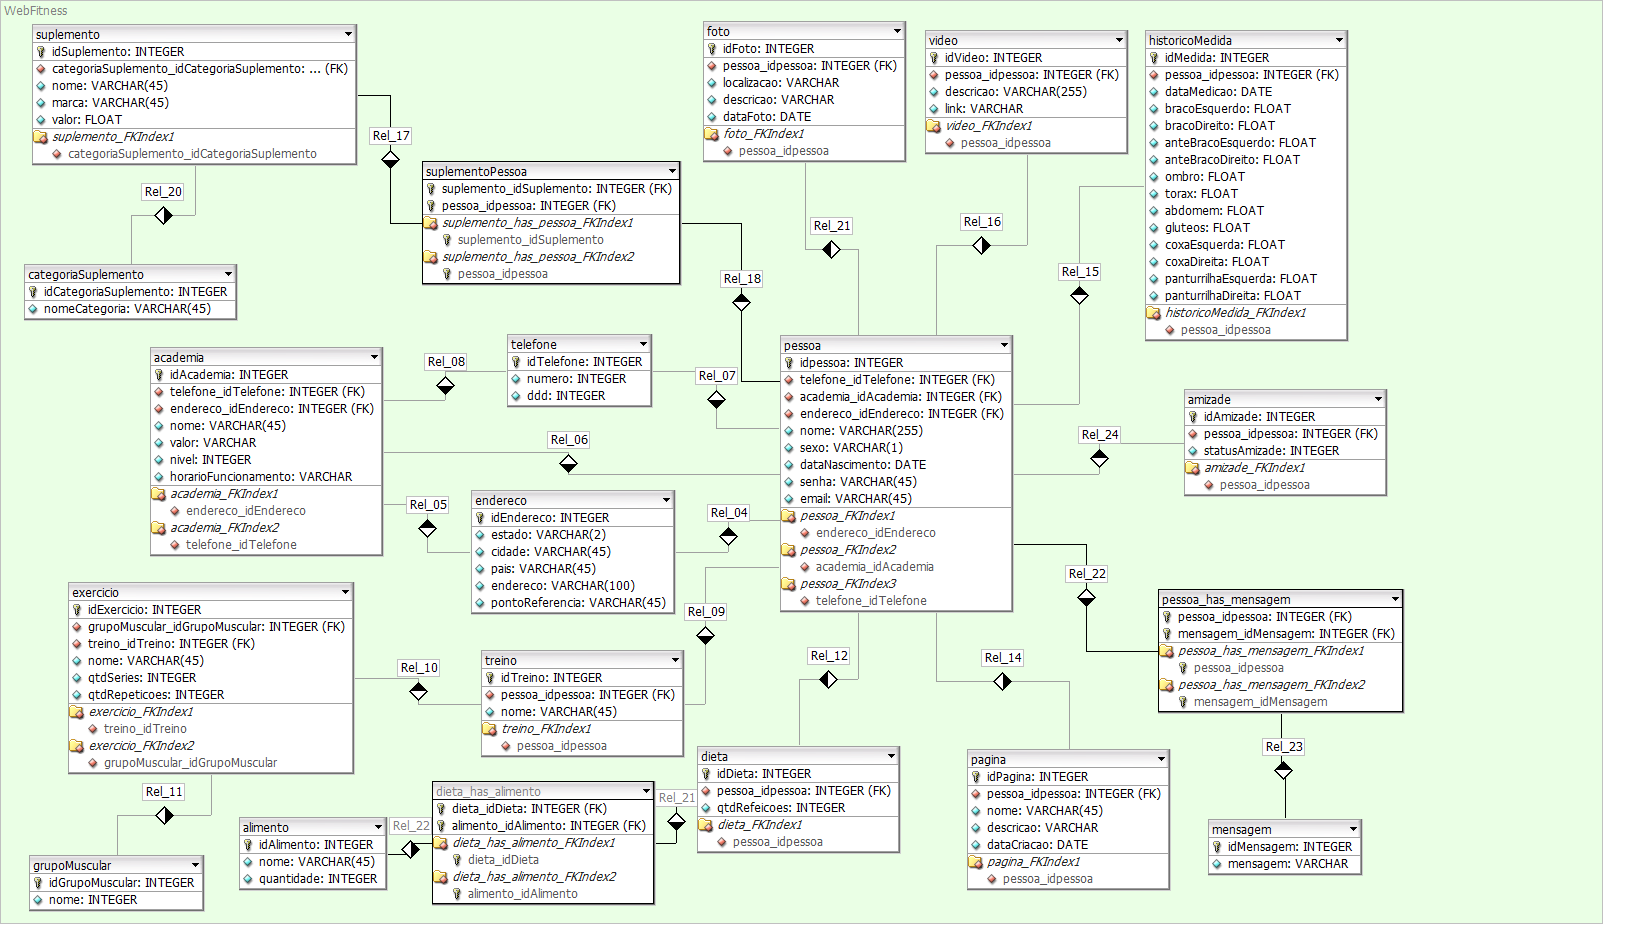
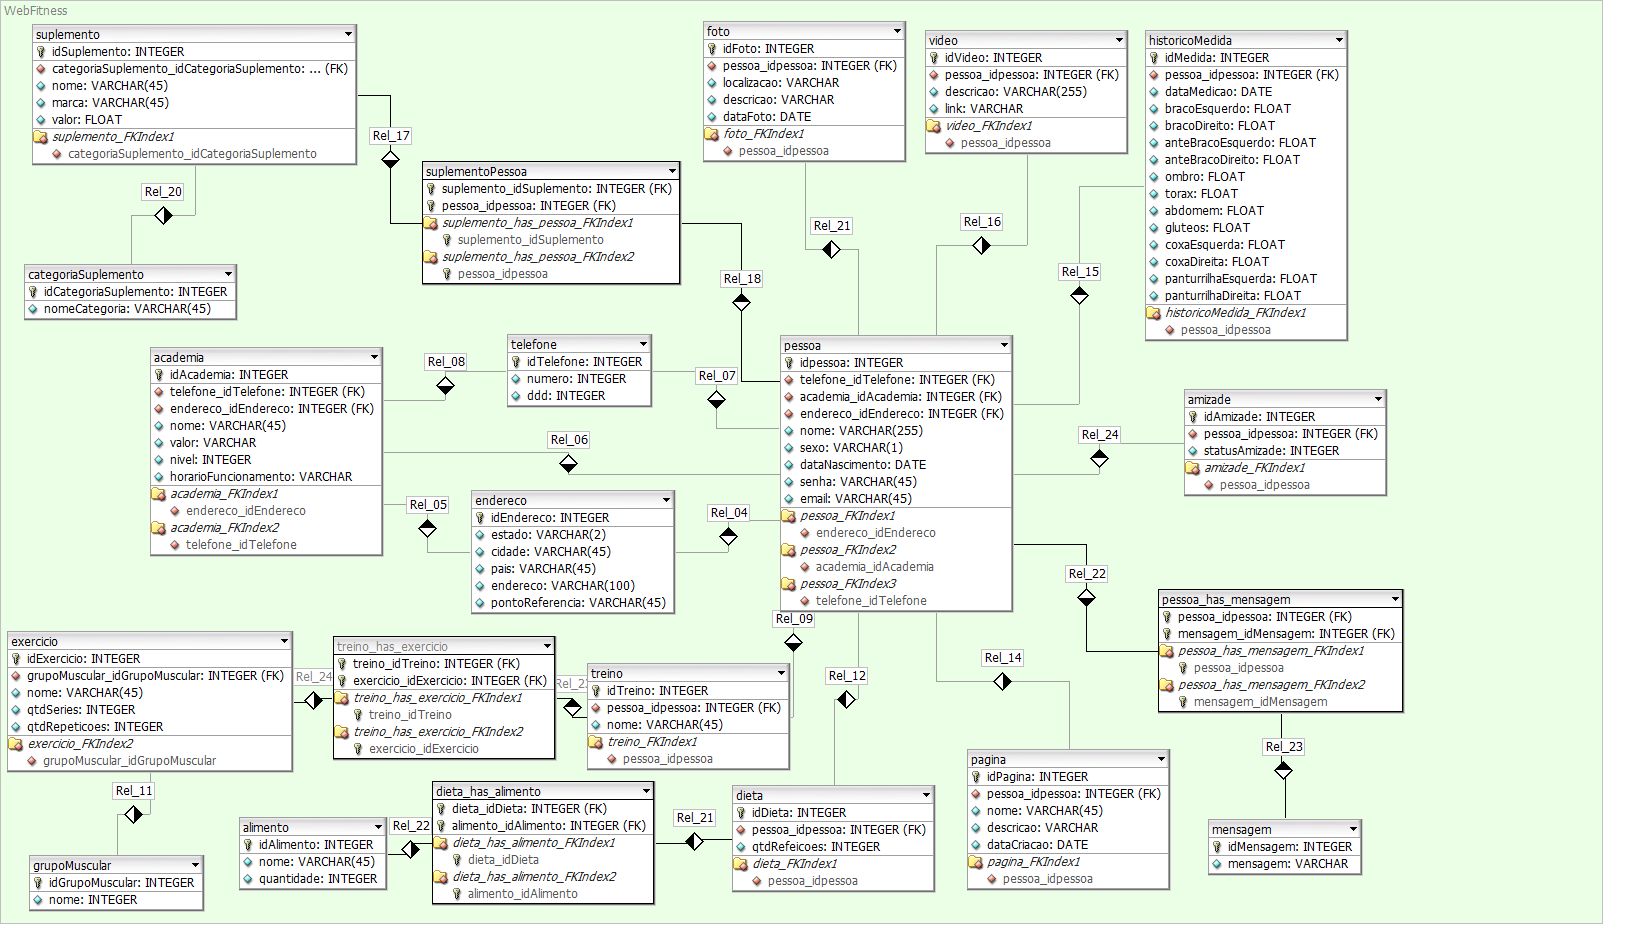
Alteração do BD e Fim da criação das entidades

Changed region(s): [[0.0, 0.6177, 0.5843, 0.9574]]

diff --git a/sigep/sigep-entity/src/br/com/webfitness/entidades/Exercicio.java b/sigep/sigep-entity/src/br/com/webfitness/entidades/Exercicio.java
@@ -1,0 +1,45 @@
+/**
+ * Desenvolvido por Everton 01/05/2016
+ */
+package br.com.webfitness.entidades;
+
+import java.util.List;
+
+import javax.persistence.JoinColumn;
+import javax.persistence.JoinTable;
+import javax.persistence.ManyToMany;
+import javax.persistence.ManyToOne;
+
+import lombok.Getter;
+import lombok.Setter;
+
+/**
+ * @author Everton
+ * Data: 01/05/2016
+ */
+public class Exercicio {
+
+	@Getter @Setter
+	private Integer idExercicio;
+	
+	@Getter @Setter
+	private Integer qtdSeries;
+	
+	@Getter @Setter
+	private Integer qtdRepeticoes;
+	
+	@Getter @Setter
+	private String nome;
+	
+	@ManyToOne
+	@Getter @Setter
+	private GrupoMuscular grupoMuscular;
+	
+	@ManyToMany
+	@JoinTable(name = "treinoExercicio" , 
+		joinColumns = @JoinColumn(name = "idExercicio"),
+		inverseJoinColumns = @JoinColumn(name = "idTreino"))
+	@Getter @Setter
+	private List<Treino> treinos;
+	
+}

diff --git a/sigep/sigep-entity/src/br/com/webfitness/entidades/Pessoa.java b/sigep/sigep-entity/src/br/com/webfitness/entidades/Pessoa.java
@@ -10,6 +10,7 @@ import javax.persistence.CascadeType;
 import javax.persistence.Entity;
 import javax.persistence.Id;
 import javax.persistence.JoinColumn;
+import javax.persistence.ManyToMany;
 import javax.persistence.ManyToOne;
 import javax.persistence.NamedQueries;
 import javax.persistence.NamedQuery;
@@ -87,4 +88,18 @@ public class Pessoa {
 	@OneToMany (mappedBy = "amigo")
 	@Getter @Setter
 	private List<Amizade> amigos;
+	
+	@OneToMany (mappedBy = "pessoaOrigem")
+	@Getter @Setter
+	private List<PessoaMensagem> mensagensEnviadas;
+
+	@ManyToMany(mappedBy = "pessoas")
+	@Getter @Setter
+	private List<Suplemento> suplementos;
+	
+	@OneToMany(mappedBy = "pessoa")
+	@JoinColumn(name="idPessoa")
+	@Getter @Setter
+	private List<Treino> treinos;
+	
 }

diff --git a/sigep/sigep-entity/src/br/com/webfitness/entidades/Suplemento.java b/sigep/sigep-entity/src/br/com/webfitness/entidades/Suplemento.java
@@ -1,7 +1,12 @@
 package br.com.webfitness.entidades;
 
+import java.util.List;
+
 import javax.persistence.Entity;
 import javax.persistence.Id;
+import javax.persistence.JoinColumn;
+import javax.persistence.JoinTable;
+import javax.persistence.ManyToMany;
 import javax.persistence.ManyToOne;
 
 import lombok.Getter;
@@ -29,4 +34,12 @@ public class Suplemento {
 	@ManyToOne
 	@Getter @Setter
 	private CategoriaSuplemento categoriaSuplemento;
+	
+	@ManyToMany
+	@JoinTable(name = "suplementoPessoa" , 
+		joinColumns = @JoinColumn(name = "idSuplemento"),
+		inverseJoinColumns = @JoinColumn(name = "idPessoa"))
+	@Getter @Setter
+	private List<Pessoa> pessoas;
+	
 }

diff --git a/sigep/sigep-entity/src/br/com/webfitness/entidades/PessoaMensagem.java b/sigep/sigep-entity/src/br/com/webfitness/entidades/PessoaMensagem.java
@@ -1,0 +1,35 @@
+/**
+ * Desenvolvido por Everton 01/05/2016
+ */
+package br.com.webfitness.entidades;
+
+import javax.persistence.Column;
+import javax.persistence.Entity;
+import javax.persistence.Id;
+import javax.persistence.JoinColumn;
+
+import lombok.Getter;
+import lombok.Setter;
+
+/**
+ * @author Everton
+ * Data: 01/05/2016
+ */
+@Entity
+public class PessoaMensagem {
+	@Id
+	@Getter @Setter
+	@JoinColumn(name = "idPessoaOrigem")
+	private Pessoa pessoaOrigem;
+	
+	@Id
+	@Getter @Setter
+	@Column(name = "idPessoaDestino")
+	private Pessoa pessoaDestino;
+	
+	@Id
+	@Getter @Setter
+	@JoinColumn(name = "idMensagem")
+	private Mensagem mensagem;
+	
+}

diff --git a/sigep/sigep-entity/src/br/com/webfitness/entidades/GrupoMuscular.java b/sigep/sigep-entity/src/br/com/webfitness/entidades/GrupoMuscular.java
@@ -1,0 +1,34 @@
+/**
+ * Desenvolvido por Everton 01/05/2016
+ */
+package br.com.webfitness.entidades;
+
+import java.util.List;
+
+import javax.persistence.Entity;
+import javax.persistence.Id;
+import javax.persistence.JoinColumn;
+import javax.persistence.OneToMany;
+
+import lombok.Getter;
+import lombok.Setter;
+
+/**
+ * @author Everton
+ * Data: 01/05/2016
+ */
+@Entity
+public class GrupoMuscular {
+	
+	@Id
+	@Getter @Setter
+	private Integer idGrupoMuscular;
+	
+	@Getter @Setter
+	private String nome;
+	
+	@OneToMany(mappedBy = "grupoMuscular")
+	@JoinColumn(name = "idGrupoMuscular")
+	@Getter @Setter
+	private List<Exercicio> exercicios;
+}

diff --git a/sigep/sigep-entity/src/br/com/webfitness/entidades/Treino.java b/sigep/sigep-entity/src/br/com/webfitness/entidades/Treino.java
@@ -1,0 +1,37 @@
+/**
+ * Desenvolvido por Everton 01/05/2016
+ */
+package br.com.webfitness.entidades;
+
+import java.util.List;
+
+import javax.persistence.Entity;
+import javax.persistence.Id;
+import javax.persistence.ManyToMany;
+import javax.persistence.ManyToOne;
+
+import lombok.Getter;
+import lombok.Setter;
+
+/**
+ * @author Everton
+ * Data: 01/05/2016
+ */
+@Entity
+public class Treino {
+
+	@Id
+	@Getter @Setter
+	private Integer idTreino;
+	
+	@Getter @Setter
+	private String nome;
+	
+	@ManyToOne
+	@Getter @Setter
+	private Pessoa pessoa;
+	
+	@ManyToMany (mappedBy = "treinos")
+	@Getter @Setter
+	private List<Exercicio> exercicios;
+}

diff --git a/sigep/sigep-entity/src/br/com/webfitness/entidades/Mensagem.java b/sigep/sigep-entity/src/br/com/webfitness/entidades/Mensagem.java
@@ -1,0 +1,31 @@
+/**
+ * Desenvolvido por Everton 01/05/2016
+ */
+package br.com.webfitness.entidades;
+
+import java.util.List;
+
+import javax.persistence.Entity;
+import javax.persistence.Id;
+import javax.persistence.OneToMany;
+
+import lombok.Getter;
+import lombok.Setter;
+
+/**
+ * @author Everton
+ * Data: 01/05/2016
+ */
+@Entity
+public class Mensagem {
+	@Id
+	@Getter @Setter
+	private Integer idMensagem;
+	
+	@Getter @Setter
+	private String mensagem;
+	
+	@OneToMany (mappedBy = "mensagem")
+	@Getter @Setter
+	private List<PessoaMensagem> pessoas;
+}
